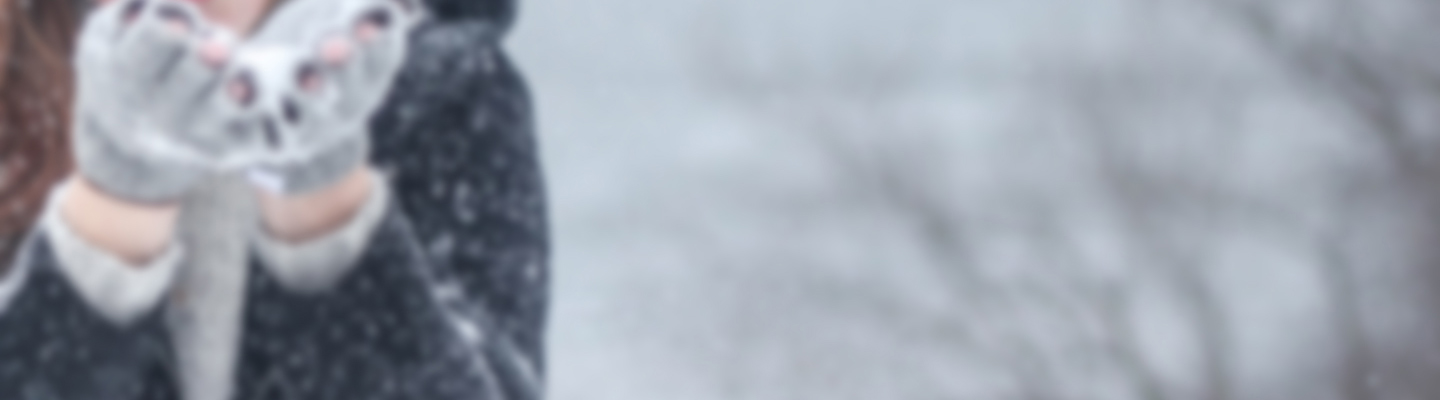
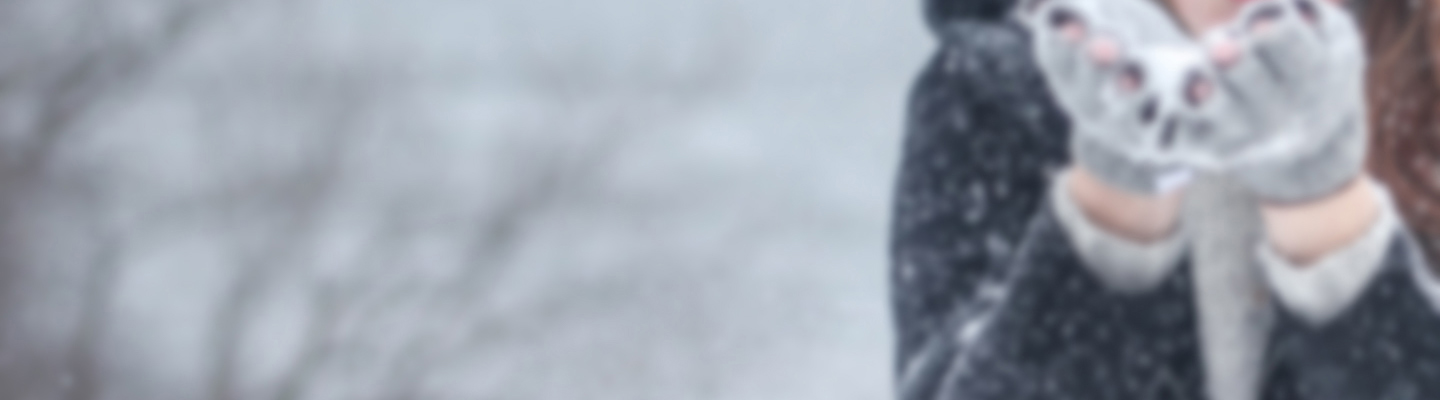
Added schedules for 15 and 91 Reverse routes. Tweaked home weather snow background image.

diff --git a/www/templates/scheduleTimes.html b/www/templates/scheduleTimes.html
@@ -33,6 +33,13 @@
           <div class="schedTimeEven" ng-if="$index > 0 && $index % 2 == 0">{{entry}}</div>
         </div>
       </div>
+      <div>
+        *F - Trip operates on Friday nights only when UNBC is in full session and until April<br>
+        *U - Trip operates when UNBC is in full session.<br>
+        *V - Trip is operated by Community bus: bike rack use limited to daylight hours only<br>
+        <br>
+      </div>
+
     </ion-scroll>
 
   </ion-content>
